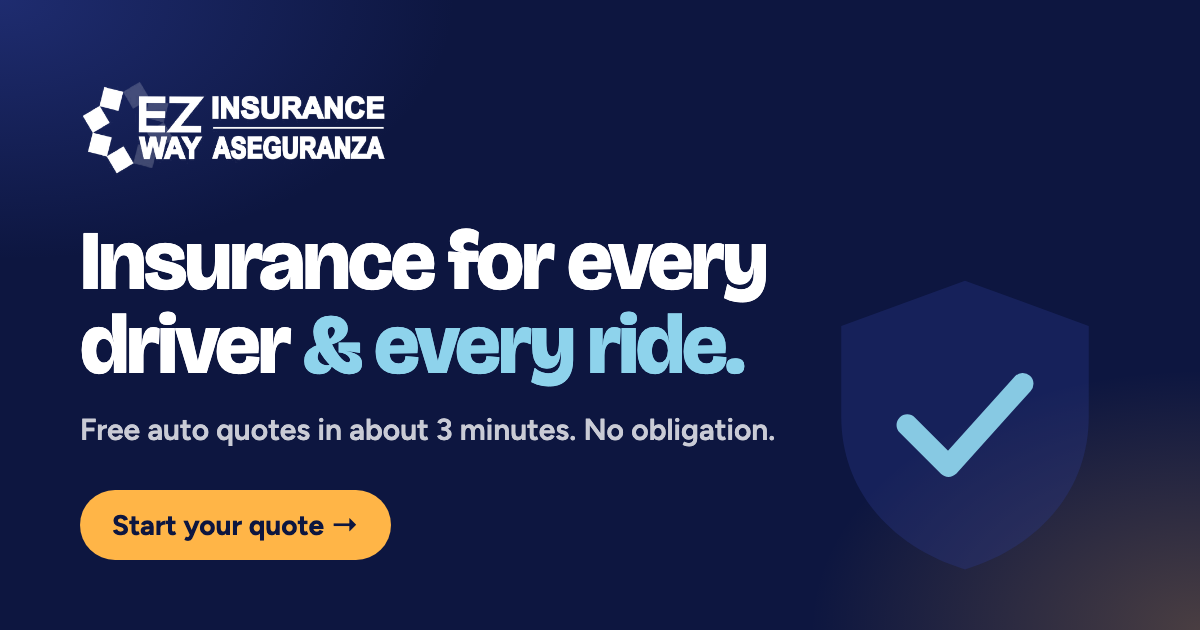
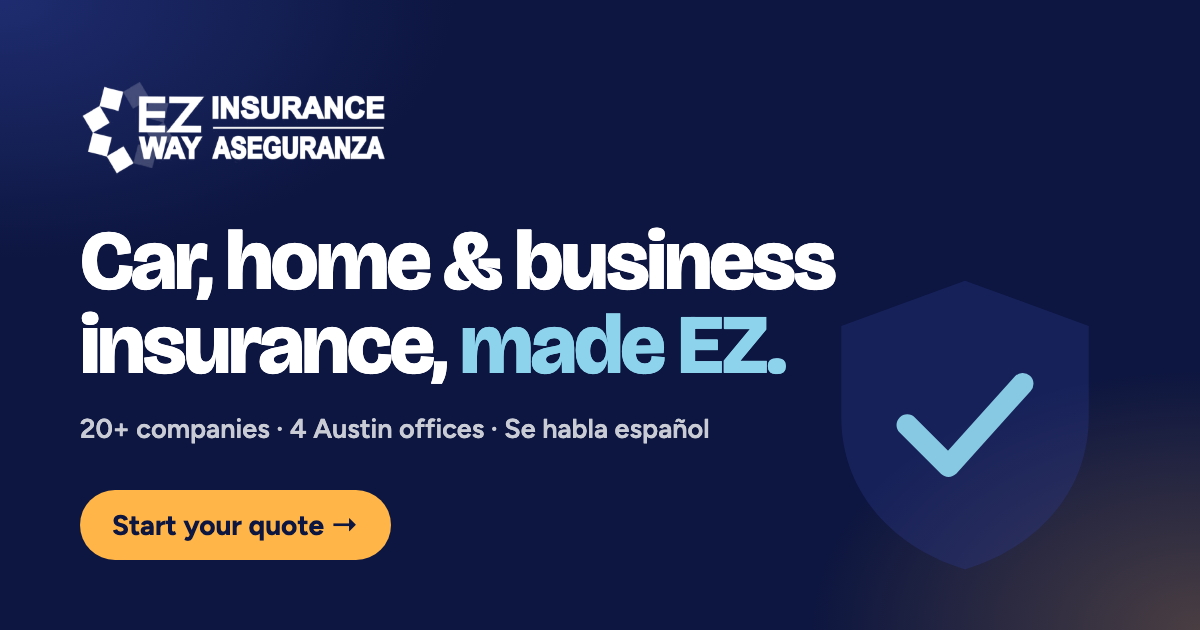
Hero: present EZ Way as a full agency, not only car insurance
Headline now covers car, home and business insurance. The illustration
shows a home, a storefront and a car under one shield, and the hero
chips cover home, business/commercial auto and a rotating list of the
other services. Share image updated to match.

Changed region(s): [[0.0617, 0.3619, 0.7092, 0.6333], [0.0617, 0.6635, 0.6475, 0.7238]]

diff --git a/tools/og-image.html b/tools/og-image.html
@@ -8,13 +8,13 @@ body{margin:0;width:1200px;height:630px;overflow:hidden;font-family:Figtree,sans
 .logo svg{width:64px;height:64px;color:#3F55C8}
 h1{font-family:"Bricolage Grotesque";font-weight:800;font-size:84px;line-height:1;letter-spacing:-.035em;margin:44px 0 24px;max-width:900px}
 h1 span{color:#8ED3EC}
-p{font-size:30px;color:rgba(255,255,255,.78);margin:0}
+p{font-size:27px;max-width:740px;color:rgba(255,255,255,.78);margin:0}
 .btn{position:absolute;left:80px;bottom:70px;background:#FFB547;color:#0D1640;font-weight:700;font-size:28px;padding:18px 32px;border-radius:999px}
 .shield{position:absolute;right:70px;bottom:40px;width:330px;opacity:.95}
 </style></head><body><div class="g"></div>
 <svg class="shield" viewBox="0 0 40 40"><path d="M20 2.5 5 8v11c0 9.2 6.4 15.9 15 18.5 8.6-2.6 15-9.3 15-18.5V8L20 2.5Z" fill="#2B3990" opacity=".35"/><path d="m13 20 5 5 9-10" fill="none" stroke="#8ED3EC" stroke-width="2.6" stroke-linecap="round" stroke-linejoin="round"/></svg>
 <div class="in"><div class="logo"><img src="/assets/img/logo-white.png" alt="EZ Way Insurance" style="height:96px"></div>
-<h1>Insurance for every driver <span>&amp; every ride.</span></h1>
-<p>Free auto quotes in about 3 minutes. No obligation.</p></div>
+<h1>Car, home &amp; business insurance, <span>made EZ.</span></h1>
+<p>20+ companies · 4 Austin offices · Se habla español</p></div>
 <div class="btn">Start your quote →</div>
 </body></html>

diff --git a/public_html/assets/css/site.css b/public_html/assets/css/site.css
@@ -1311,3 +1311,21 @@ h1, h2, h3, h4 { overflow-wrap: break-word; hyphens: manual; }
   .cd h2 { font-size: 1.5rem; }
 }
 @media (max-width: 1200px) and (min-width: 981px) { .chip-2 { right: -1%; } .chip-1 { left: -3%; } }
+
+/* Hero: rotating "We also handle…" chip */
+.chip .rot { display: block; height: 1.3em; overflow: hidden; }
+.rot-in { display: block; animation: rot 10s cubic-bezier(.7, 0, .3, 1) infinite; }
+.rot-in span { display: block; height: 1.3em; line-height: 1.3em; white-space: nowrap; }
+@keyframes rot {
+  0%, 20% { transform: translateY(0); }
+  25%, 45% { transform: translateY(-1.3em); }
+  50%, 70% { transform: translateY(-2.6em); }
+  75%, 95% { transform: translateY(-3.9em); }
+  100% { transform: translateY(-5.2em); }
+}
+.scene .house .win rect { animation: winglow 4s ease-in-out infinite; }
+.scene .house .win rect:nth-child(2) { animation-delay: 2s; }
+@keyframes winglow { 50% { opacity: .7; } }
+@media (prefers-reduced-motion: reduce) { .rot-in { animation: none; } }
+.page-home .hero-h { font-size: clamp(2.4rem, 4.7vw, 4rem); }
+@media (min-width: 1600px) { .page-home .hero-h { font-size: 4.3rem; } }

diff --git a/public_html/index.php b/public_html/index.php
@@ -32,12 +32,12 @@ require APP_ROOT . '/partials/header.php';
     <div class="hero-copy">
       <p class="pill reveal"><span class="pill-dot"></span><?= e(L('Licensed in Texas · 4 Austin offices · Se habla español', 'Con licencia en Texas · 4 oficinas en Austin · Hablamos inglés y español')) ?></p>
       <h1 class="hero-h reveal">
-        <?= e(L('Insurance for every driver', 'Seguro para cada conductor')) ?>
-        <span class="hl"><?= e(L('& every ride.', 'y cada viaje.')) ?><svg viewBox="0 0 300 20" preserveAspectRatio="none" aria-hidden="true"><path d="M3 15c60-9 140-13 294-6" /></svg></span>
+        <?= e(L('Car, home & business insurance,', 'Seguros de auto, casa y negocio,')) ?>
+        <span class="hl"><?= e(L('made EZ.', 'más fácil.')) ?><svg viewBox="0 0 300 20" preserveAspectRatio="none" aria-hidden="true"><path d="M3 15c60-9 140-13 294-6" /></svg></span>
       </h1>
       <p class="lead reveal"><?= e(L(
-          'Car, home and business insurance from ' . cfg('site.carriers') . '+ companies, plus titles, plates and registration. Tell us what you need once and a local agent finds your best price.',
-          'Seguro de auto, casa y negocio con más de ' . cfg('site.carriers') . ' compañías, además de títulos, placas y registro. Dinos qué necesitas una sola vez y un agente local encuentra tu mejor precio.'
+          'One local team for everything you drive, own and build: ' . cfg('site.carriers') . '+ insurance companies compared for you, plus titles, plates, bonds and LLC registration. Tell us what you need once and we find your best price.',
+          'Un solo equipo local para todo lo que manejas, tienes y construyes: comparamos más de ' . cfg('site.carriers') . ' compañías por ti, además de títulos, placas, bonos y registro de LLC. Dinos qué necesitas una sola vez y encontramos tu mejor precio.'
       )) ?></p>
 
       <form class="zip-form reveal" data-zipform data-service="">
@@ -51,13 +51,13 @@ require APP_ROOT . '/partials/header.php';
 
       <ul class="hero-ticks reveal">
         <li><?= icon('id') ?> <?= e(L('No license? No problem', '¿Sin licencia? No hay problema')) ?></li>
-        <li><?= icon('clock') ?> <?= e(L('About 3 minutes', 'Unos 3 minutos')) ?></li>
+        <li><?= icon('search') ?> <?= e(L(cfg('site.carriers') . '+ companies compared', 'Más de ' . cfg('site.carriers') . ' compañías')) ?></li>
         <li><?= icon('check') ?> <?= e(L('Free, no obligation', 'Gratis y sin compromiso')) ?></li>
       </ul>
     </div>
 
     <div class="hero-art reveal" data-parallax>
-      <svg class="scene" viewBox="0 0 560 520" role="img" aria-label="<?= e(L('Illustration of a car driving under a protective shield', 'Ilustración de un auto manejando bajo un escudo protector')) ?>">
+      <svg class="scene" viewBox="0 0 560 520" role="img" aria-label="<?= e(L('Illustration of a home, a business and a car protected by one shield', 'Ilustración de una casa, un negocio y un auto protegidos por un mismo escudo')) ?>">
         <defs>
           <linearGradient id="sky" x1="0" y1="0" x2="0" y2="1"><stop offset="0" stop-color="#0D1640"/><stop offset="1" stop-color="#1B2A68"/></linearGradient>
           <radialGradient id="sun" cx=".5" cy=".5" r=".5"><stop offset="0" stop-color="#FFD48A"/><stop offset=".55" stop-color="#FFB547" stop-opacity=".55"/><stop offset="1" stop-color="#FFB547" stop-opacity="0"/></radialGradient>
@@ -90,10 +90,36 @@ require APP_ROOT . '/partials/header.php';
             <path d="M280 96 168 138v86c0 74 47 126 112 148 65-22 112-74 112-148v-86L280 96Z" fill="url(#shieldG)" stroke="#8ED3EC" stroke-opacity=".7" stroke-width="2.5"/>
             <path class="shield-check" d="m240 214 28 28 54-56" fill="none" stroke="#8ED3EC" stroke-width="10" stroke-linecap="round" stroke-linejoin="round"/>
           </g>
+          <g class="house" transform="translate(30 300)">
+            <rect x="106" y="10" width="15" height="28" fill="#B84A3C"/>
+            <rect x="12" y="40" width="126" height="66" rx="2" fill="#F3EEE4"/>
+            <path d="M0 44 75 0l75 44Z" fill="#F26D5B"/>
+            <path d="M75 0 150 44h-14L75 8Z" fill="#000" opacity=".12"/>
+            <g class="win" fill="#FFD48A"><rect x="24" y="56" width="28" height="24" rx="3"/><rect x="98" y="56" width="28" height="24" rx="3"/></g>
+            <path d="M38 56v24M24 68h28M112 56v24M98 68h28" stroke="#E5B25C" stroke-width="2"/>
+            <rect x="64" y="66" width="22" height="40" rx="3" fill="#2B3990"/>
+            <circle cx="81" cy="87" r="2" fill="#FFD48A"/>
+            <path d="M75 20v10" stroke="#fff" stroke-opacity=".5" stroke-width="2"/>
+          </g>
+          <g class="shop" transform="translate(392 284)">
+            <rect x="0" y="22" width="150" height="100" rx="2" fill="#E8EEFB"/>
+            <rect x="-4" y="12" width="158" height="16" rx="3" fill="#2B3990"/>
+            <rect x="36" y="30" width="78" height="18" rx="4" fill="#FFB547"/>
+            <text x="75" y="43" text-anchor="middle" font-family="Figtree, Arial, sans-serif" font-size="11" font-weight="800" fill="#0D1640"><?= e(L('OPEN', 'ABIERTO')) ?></text>
+            <g class="awning">
+              <rect x="0" y="54" width="150" height="12" fill="#fff"/>
+              <path d="M0 54h15v12H0zM30 54h15v12H30zM60 54h15v12H60zM90 54h15v12H90zM120 54h15v12h-15z" fill="#FFB547"/>
+              <path d="M0 66a7.5 7.5 0 0 0 15 0 7.5 7.5 0 0 0 15 0 7.5 7.5 0 0 0 15 0 7.5 7.5 0 0 0 15 0 7.5 7.5 0 0 0 15 0 7.5 7.5 0 0 0 15 0 7.5 7.5 0 0 0 15 0 7.5 7.5 0 0 0 15 0 7.5 7.5 0 0 0 15 0 7.5 7.5 0 0 0 15 0Z" fill="#FFB547"/>
+            </g>
+            <rect x="10" y="78" width="58" height="36" rx="3" fill="#CFE9F5"/>
+            <path d="M18 104 32 86M30 108l14-18" stroke="#fff" stroke-opacity=".7" stroke-width="3" stroke-linecap="round"/>
+            <rect x="80" y="76" width="28" height="46" rx="3" fill="#9CC9E8"/>
+            <rect x="116" y="78" width="26" height="36" rx="3" fill="#CFE9F5"/>
+          </g>
           <rect y="414" width="560" height="106" fill="#0A1233"/>
           <rect y="414" width="560" height="5" fill="#1E2C66"/>
           <path class="lane" d="M-40 470H600" stroke="#FFD48A" stroke-width="5" stroke-dasharray="34 26" stroke-linecap="round"/>
-          <g class="car" transform="translate(132 322)">
+          <g class="car" transform="translate(176 342) scale(.8)">
             <path class="beam" d="M268 58 420 36v70L268 74Z" fill="url(#beam)"/>
             <g class="speed" stroke="#8ED3EC" stroke-width="3" stroke-linecap="round" opacity=".7">
               <path d="M-50 40h34"/><path d="M-70 60h48"/><path d="M-40 78h22"/>
@@ -119,18 +145,22 @@ require APP_ROOT . '/partials/header.php';
       </svg>
 
       <div class="chip chip-1" data-depth="18">
-        <span class="chip-ic teal"><?= icon('scan') ?></span>
-        <span><small><?= e(L('VIN detected', 'VIN detectado')) ?></small><b>2021 Honda Civic EX</b></span>
+        <span class="chip-ic teal"><?= icon('home') ?></span>
+        <span><small><?= e(L('Home insurance', 'Seguro de casa')) ?></small><b><?= e(L('Protected', 'Protegida')) ?></b></span>
         <span class="chip-ok"><?= icon('check') ?></span>
       </div>
       <div class="chip chip-2" data-depth="28">
-        <span class="chip-ic teal"><?= icon('id') ?></span>
-        <span><small><?= e(L('Any type of ID', 'Cualquier tipo de ID')) ?></small><b><?= e(L('Accepted', 'Aceptada')) ?></b></span>
+        <span class="chip-ic teal"><?= icon('briefcase') ?></span>
+        <span><small><?= e(L('Business & commercial auto', 'Negocio y auto comercial')) ?></small><b><?= e(L('Covered', 'Asegurado')) ?></b></span>
         <span class="chip-ok"><?= icon('check') ?></span>
       </div>
       <div class="chip chip-3" data-depth="12">
-        <span class="chip-ic amber"><?= icon('shield') ?></span>
-        <span><small><?= e(L('Quote request', 'Cotización')) ?></small><b><?= e(L('Sent to your agent', 'Enviada a tu agente')) ?></b></span>
+        <span class="chip-ic amber"><?= icon('sparkle') ?></span>
+        <span><small><?= e(L('We also handle', 'También hacemos')) ?></small>
+          <b class="rot" aria-label="<?= e(L('Title transfers, license plates, bonds, LLC & DBA', 'Títulos, placas, bonos, LLC y DBA')) ?>"><span class="rot-in" aria-hidden="true">
+            <span><?= e(L('Title transfers', 'Transferencia de títulos')) ?></span><span><?= e(L('License plates', 'Placas y registro')) ?></span><span><?= e(L('Bonds', 'Bonos')) ?></span><span><?= e(L('LLC & DBA', 'LLC y DBA')) ?></span><span><?= e(L('Title transfers', 'Transferencia de títulos')) ?></span>
+          </span></b>
+        </span>
       </div>
     </div>
   </div>
